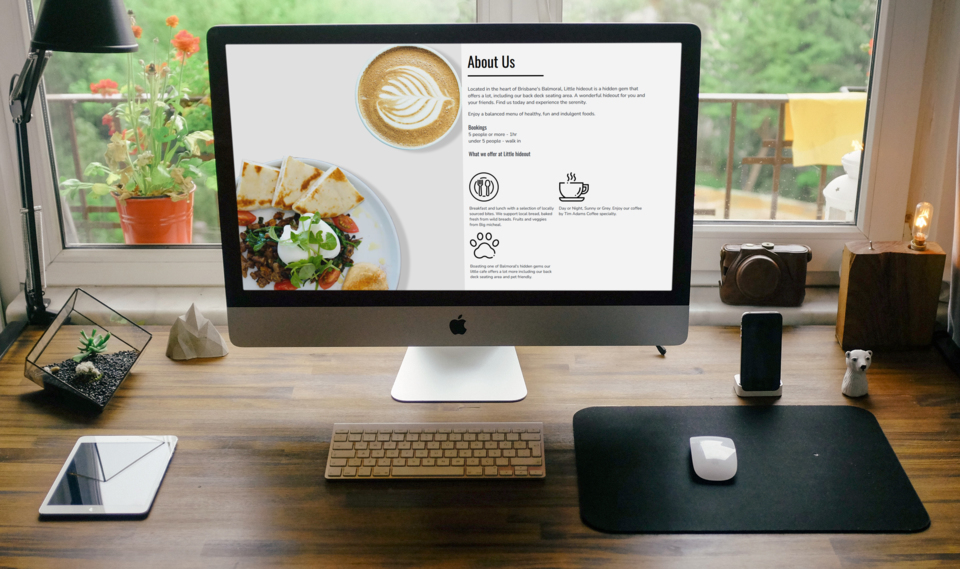
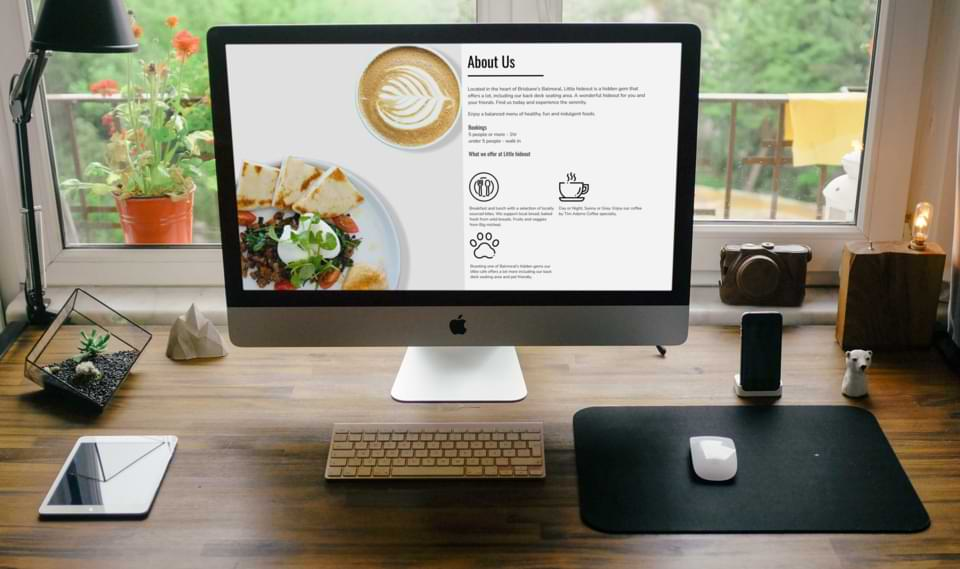
optimised images

diff --git a/src/section/projectsarray.js b/src/section/projectsarray.js
@@ -2,7 +2,7 @@ export const projectsarray = [
     {
         id:1,
         title:'Kzen8',
-        imageUrl:require("../assets/Kzen8-project.svg"),
+        imageUrl:require("../assets/Kzen8-project.png"),
         mobileLayout: require("../assets/kzen8mobile.png"),
         laptopLayout: require("../assets/kzen8laptop.png"),
         description: ["Project developed for Kzen8 Pty Ltd. This project serves as a landing page for a no-code business software platform provided by kzen8 and is part of a much bigger marketing campaign. I was responsible for designing, developing, testing and deploying the application.",
@@ -26,7 +26,7 @@ export const projectsarray = [
     {
         id:3,
         title:'One Wish Cleaning',
-        imageUrl:require("../assets/onewish.png"),
+        imageUrl:require("../assets/onewish.webp"),
         mobileLayout: require("../assets/onewishmobile.png"),
         laptopLayout: require("../assets/onewishlaptop.png"),
         description: ["Project developed for One Wish Cleaning Pty Ltd. The project's objective was to establish the client's online presence. I was responsible for designing, developing, testing and deploying the application. Hence, this is entirely my creation.",
@@ -52,7 +52,7 @@ export const projectsarray = [
     {
         id:5,
         title:'Car Vendor',
-        imageUrl:require("../assets/car-vendor-project.PNG"),
+        imageUrl:require("../assets/car-vendor-project.webp"),
         mobileLayout: require("../assets/carvendormobile.png"),
         laptopLayout: require("../assets/carvendorlaptop.png"),
         description: ["Project developed for Car Vendor Pty Ltd. The project's objective was to create an online platform for selling, buying and renting cars. I was responsible for designing, developing, testing and deploying the application. Hence, this is entirely my creation.",

diff --git a/src/components/Intro/Intro.js b/src/components/Intro/Intro.js
@@ -1,6 +1,6 @@
 import React, { useState, useEffect } from "react";
 import "./Intro.scss";
-import HeroImage from "../../assets/hero-image.svg";
+import HeroImage from "../../assets/hero-image.png";
 import Button from "../Button/Button";
 import { useParallax } from "react-scroll-parallax";
 import { useWindowWidth } from "@react-hook/window-size";
